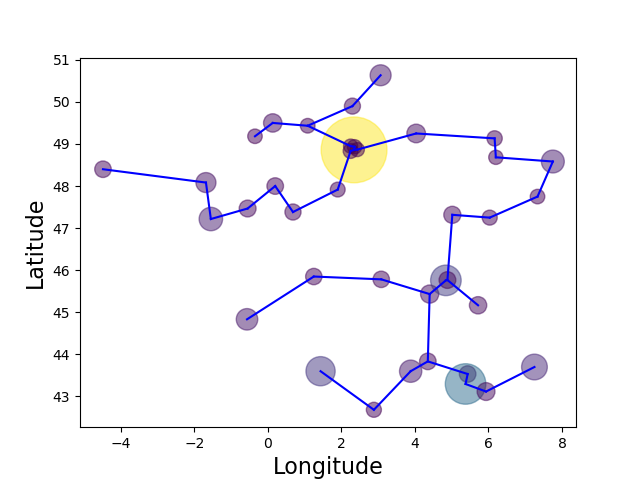
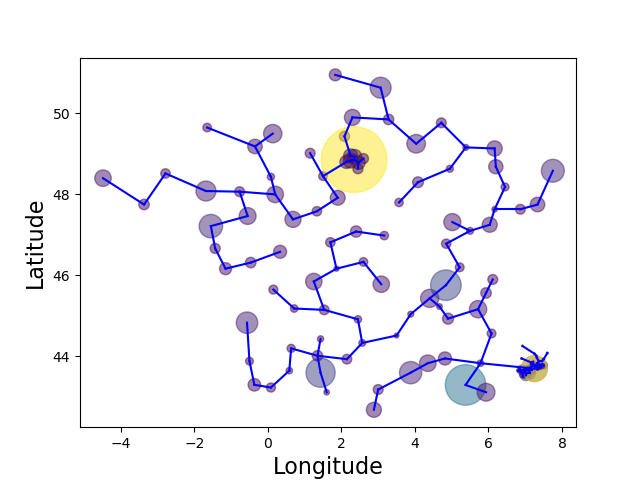
big cities + dpt 6

diff --git a/main.c b/main.c
@@ -20,40 +20,42 @@ int main() {
 //-----------------------------------------------------------------
 
   int popMin;
-  popMin = 100000;
+  popMin = 1000;
   //printf("Minimal population? ");
   //scanf("%i", &popMin);
 
-  ListOfCities* cities;
-  cities = citiesReader(popMin,0);
-  //cities = bigcitiesReader();  //read the largest cities of every provinces
+  ListOfCities* bigCities;                                  
+  bigCities = bigcitiesReader();  //read the largest cities of every provinces
   
 //-----------------------------------------------------------------
 //--- COMPUTING graph
 //-----------------------------------------------------------------
 
+  //---------------------------------------------------------------
+  //--- Graph of bigCities
+  //---------------------------------------------------------------
   
   // allocation des variables
-  bool* dansS = malloc(cities->number*sizeof(bool));
-  int* voisin = malloc(cities->number*sizeof(int));
-  float* dist = malloc(cities->number*sizeof(float));
+  bool* dansS = malloc(bigCities->number*sizeof(bool));
+  int* voisin = malloc(bigCities->number*sizeof(int));
+  float* dist = malloc(bigCities->number*sizeof(float));
 
   //Initialisation
   dansS[0] = true;  //On démarre du sommet 0
   dist[0] = 0;      //dist(0,0) = 0
-  for(int i = 0; i < cities->number; i++){
+  for(int i = 0; i < bigCities->number; i++){
     dansS[i] = false;
-    dist[i] = poids(cities,0,i);
+    dist[i] = poids(bigCities,0,i);
     voisin[i] = 0;
   }
 
   //Itérations
   int k = 0;
-  while(k < cities->number - 2){
+  while(k < bigCities->number - 2){
     //Trouver i tels que (dansS[i]=false) et (dist[i] est minimal)
     float minDist = FLT_MAX;
     int i = 0;
-    for(int j = 1; j < cities->number; j++){
+    for(int j = 1; j < bigCities->number; j++){
       if( dansS[j] == false){
         if(dist[j] < minDist){
           minDist = dist[j];
@@ -63,10 +65,10 @@ int main() {
     }//minDist,min_i OK
     dansS[i] = true;
     
-    for(int j = 0; j < cities->number; j++){
+    for(int j = 0; j < bigCities->number; j++){
       if( dansS[j] == false ){
-        if( dist[j] > poids(cities,i,j) ){
-          dist[j] = poids(cities,i,j);
+        if( dist[j] > poids(bigCities,i,j) ){
+          dist[j] = poids(bigCities,i,j);
           voisin[j] = i;
         }
       }
@@ -74,45 +76,155 @@ int main() {
     k ++;
   }
 
-
-  //Calcul de la taille du réseau
-  float taille_reseau;
-  for(int i = 1; i < cities->number; i++){
-    taille_reseau += poids(cities,i,voisin[i]);
+  // Écriture du graphe (chaque ligne correspond à une arête)
+  FILE* fileOut = fopen("resuGraphBigCities.dat", "w");
+  for(int i = 0; i<bigCities->number; i++){
+    fprintf(fileOut, "%i %i\n", i, voisin[i]);
   }
-  
+  fclose(fileOut);
 
+  
+  //Calcul de la taille du réseau bigCities
+  float taille_reseau_big_cities = 0;
+  for(int i = 0; i < bigCities->number; i++){ 
+    taille_reseau_big_cities += poids(bigCities,i,voisin[i]);
+  }
 
   // ... just to check! This line can be removed.
-  printf("\n %i cities: \n\n", cities->number);
-  printf("Taille du reseau: %1.0f km\n",taille_reseau);
+  printf("\n %i cities: \n\n", bigCities->number);
+  printf("Taille du reseau: %1.0f km\n\n",taille_reseau_big_cities);
+
+    /*
+  printf("       %25s %2s %6s  %9s %9s\n","VILLE","dpt","pop","longitude","latitude");
+  printf("----------------------------------------------------------------\n");
+  for(int i=0; i<bigCities->number; i++){
+    printf("%3i/%3i: %25s %2i %7i %9f %9f\n",i+1, bigCities->number, bigCities->name[i], bigCities->dpt[i], bigCities->pop[i], bigCities->lon[i], bigCities->lat[i]);
+  }
+  */
+
+
+//-----------------------------------------------------------------
+//--- READING citie6
+//-----------------------------------------------------------------
+  ListOfCities* citie6;
+  citie6 = citiesReader(popMin,6);  //read the cities whith pop >= popMin
+                                      //write in resuCities.dat
+
+//-----------------------------------------------------------------
+//--- COMPUTING graph
+//-----------------------------------------------------------------
+
+  //---------------------------------------------------------------
+  //--- Graph of cities with dpt = 6
+  //---------------------------------------------------------------
+
+  // allocation des variables
+  dansS = malloc(citie6->number*sizeof(bool));
+  voisin = malloc(citie6->number*sizeof(int));
+  dist = malloc(citie6->number*sizeof(float));
+
+  //Initialisation
+  dansS[0] = true;  //On démarre du sommet 0
+  dist[0] = 0;      //dist(0,0) = 0
+  for(int i = 0; i < citie6->number; i++){
+    dansS[i] = false;
+    dist[i] = poids(citie6,0,i);
+    voisin[i] = 0;
+  }
+
+  //Itérations
+  k = 0;
+  while(k < citie6->number - 2){
+    //Trouver i tels que (dansS[i]=false) et (dist[i] est minimal)
+    float minDist = FLT_MAX;
+    int i = 0;
+    for(int j = 1; j < citie6->number; j++){
+      if( dansS[j] == false){
+        if(dist[j] < minDist){
+          minDist = dist[j];
+          i = j;
+        }
+      }
+    }//minDist,min_i OK
+    dansS[i] = true;
+    
+    for(int j = 0; j < citie6->number; j++){
+      if( dansS[j] == false ){
+        if( dist[j] > poids(citie6,i,j) ){
+          dist[j] = poids(citie6,i,j);
+          voisin[j] = i;
+        }
+      }
+    }
+    k ++;
+  }
+
+  // Écriture du graphe (chaque ligne correspond à une arête)
+  // On écrit les arêtes de ce département à la suite des bigCities
+  fileOut = fopen("resuGraph6.dat", "w");
+  for(int i=0; i<citie6->number; i++){
+    fprintf(fileOut, "%i %i\n", i, voisin[i]);
+  }
+  fclose(fileOut);
+
+
+  //Calcul de la taille du réseau citie6
+  float taille_reseau_citie6 = 0;
+  for(int i = 0; i < citie6->number; i++){ 
+    taille_reseau_citie6 += poids(citie6,i,voisin[i]);
+  }
+
+  // ... just to check! This line can be removed.
+  printf("\n %i cities: \n\n", citie6->number);
+  printf("Taille du reseau: %1.0f km\n",taille_reseau_citie6);
+
+
   
   printf("       %25s %2s %6s  %9s %9s\n","VILLE","dpt","pop","longitude","latitude");
   printf("----------------------------------------------------------------\n");
-  for(int i=0; i<cities->number; i++){
-    printf("%3i/%3i: %25s %2i %7i %9f %9f\n",i+1, cities->number, cities->name[i], cities->dpt[i], cities->pop[i], cities->lon[i], cities->lat[i]);
+  for(int i=0; i<citie6->number; i++){
+    printf("%3i/%3i: %25s %2i %7i %9f %9f\n",i+1, citie6->number, citie6->name[i], citie6->dpt[i], citie6->pop[i], citie6->lon[i], citie6->lat[i]);
   }
-  
   
 
-  // Écriture du graphe (chaque ligne correspond à une arête)
-  FILE* fileOut = fopen("resuGraph.dat", "w");
-  for(int i=0; i<cities->number; i++){
-    fprintf(fileOut, "%i %i\n", i, voisin[i]);
-    printf("%i %i\n", i, voisin[i]);
-  }
-  fclose(fileOut);
+  //---------------------------------------------------------------
+  //---------------------------------------------------------------
+
+  //Calcul de la taille du réseau bigCities
+  float taille_reseau = taille_reseau_big_cities + taille_reseau_citie6;
+
+  // ... just to check! This line can be removed.
+  printf("\n  cities: \n\n");
+  printf("Taille du reseau: %1.0f km\n",taille_reseau);
+
+  
+  
 
 
   //-----------------------------------------------------------------
   //--- DEALLOCATE arrays
   //-----------------------------------------------------------------
+  /*
   free(cities->dpt);
   free(cities->name);
   free(cities->pop);
   free(cities->lon);
   free(cities->lat);
   free(cities);
+*/
+  free(bigCities->dpt);
+  free(bigCities->name);
+  free(bigCities->pop);
+  free(bigCities->lon);
+  free(bigCities->lat);
+  free(bigCities);
+
+  free(citie6->dpt);
+  free(citie6->name);
+  free(citie6->pop);
+  free(citie6->lon);
+  free(citie6->lat);
+  free(citie6);
 
 
   return 0;

diff --git a/visualisation.py b/visualisation.py
@@ -4,16 +4,34 @@
 from matplotlib import pyplot
 from numpy import loadtxt
 
-# draw the cities
-cities = loadtxt("resuCities.dat", dtype=float, delimiter=" ")
+# draw the big cities (94)
+cities = loadtxt("resuBigCities.dat", dtype=float, delimiter=" ")
 pyplot.scatter(cities[:,1], cities[:,2], s=cities[:,0]/1000, c=cities[:,0], alpha=0.5);
 
-# draw the graph
-graph = loadtxt("resuGraph.dat", dtype=int)
+# draw the graph big cities
+graph = loadtxt("resuGraphBigCities.dat", dtype=int)
 print(graph.shape[0])
 for x in range(graph.shape[0]):
   edge = [graph[x,0], graph[x,1]]
   pyplot.plot(cities[edge,1], cities[edge,2], 'b')
+
+
+
+# draw the citie per dpt
+cities = loadtxt("resuCitiesdpt.dat", dtype=float, delimiter=" ")
+pyplot.scatter(cities[:,1], cities[:,2], s=cities[:,0]/1000, c=cities[:,0], alpha=0.5);
+
+
+# draw the graph per dpt
+graph = loadtxt("resuGraph6.dat", dtype=int)
+print(graph)
+print(graph.shape[0])
+for x in range(graph.shape[0]):
+  print(x)
+  edge = [graph[x,0], graph[x,1]]
+  print(edge)
+  pyplot.plot(cities[edge,1], cities[edge,2], 'b')
+
 
 pyplot.xlabel('Longitude', size=16)
 pyplot.ylabel('Latitude', size=16)

diff --git a/citiesReader.c b/citiesReader.c
@@ -85,7 +85,7 @@ ListOfCities* citiesReader(int popMin, int dpt){
   printf("== Writing cities with population >= %i and department = %i in 'resuCities.dat' ==\n", popMin,dpt);
 
   FILE* outputFile = NULL;
-  outputFile = fopen("resuCities.dat", "w");
+  outputFile = fopen("resuCitiesdpt.dat", "w");
   if(outputFile != NULL){
     for(int i=0; i<cities->number; i++){
       fprintf(outputFile, "%i %f %f\n", cities->pop[i], cities->lon[i], cities->lat[i]);
@@ -95,6 +95,8 @@ ListOfCities* citiesReader(int popMin, int dpt){
 
   return cities;
 }
+
+
 
 
 ListOfCities* bigcitiesReader(){
@@ -207,7 +209,7 @@ ListOfCities* bigcitiesReader(){
   printf("== Writing largest cities of every provinces in 'resuCities.dat' ==\n");
 
   FILE* outputFile = NULL;
-  outputFile = fopen("resuCities.dat", "w");
+  outputFile = fopen("resuBigCities.dat", "w");
   if(outputFile != NULL){
     for(int i=0; i<cities->number; i++){
       fprintf(outputFile, "%i %f %f\n", cities->pop[i], cities->lon[i], cities->lat[i]);

diff --git a/citiesReader.h b/citiesReader.h
@@ -1,8 +1,6 @@
 #ifndef CITIES_READER
 #define CITIES_READER
 
-//int R = 6378;
-
 typedef struct ListOfCities ListOfCities;
 
 struct ListOfCities
